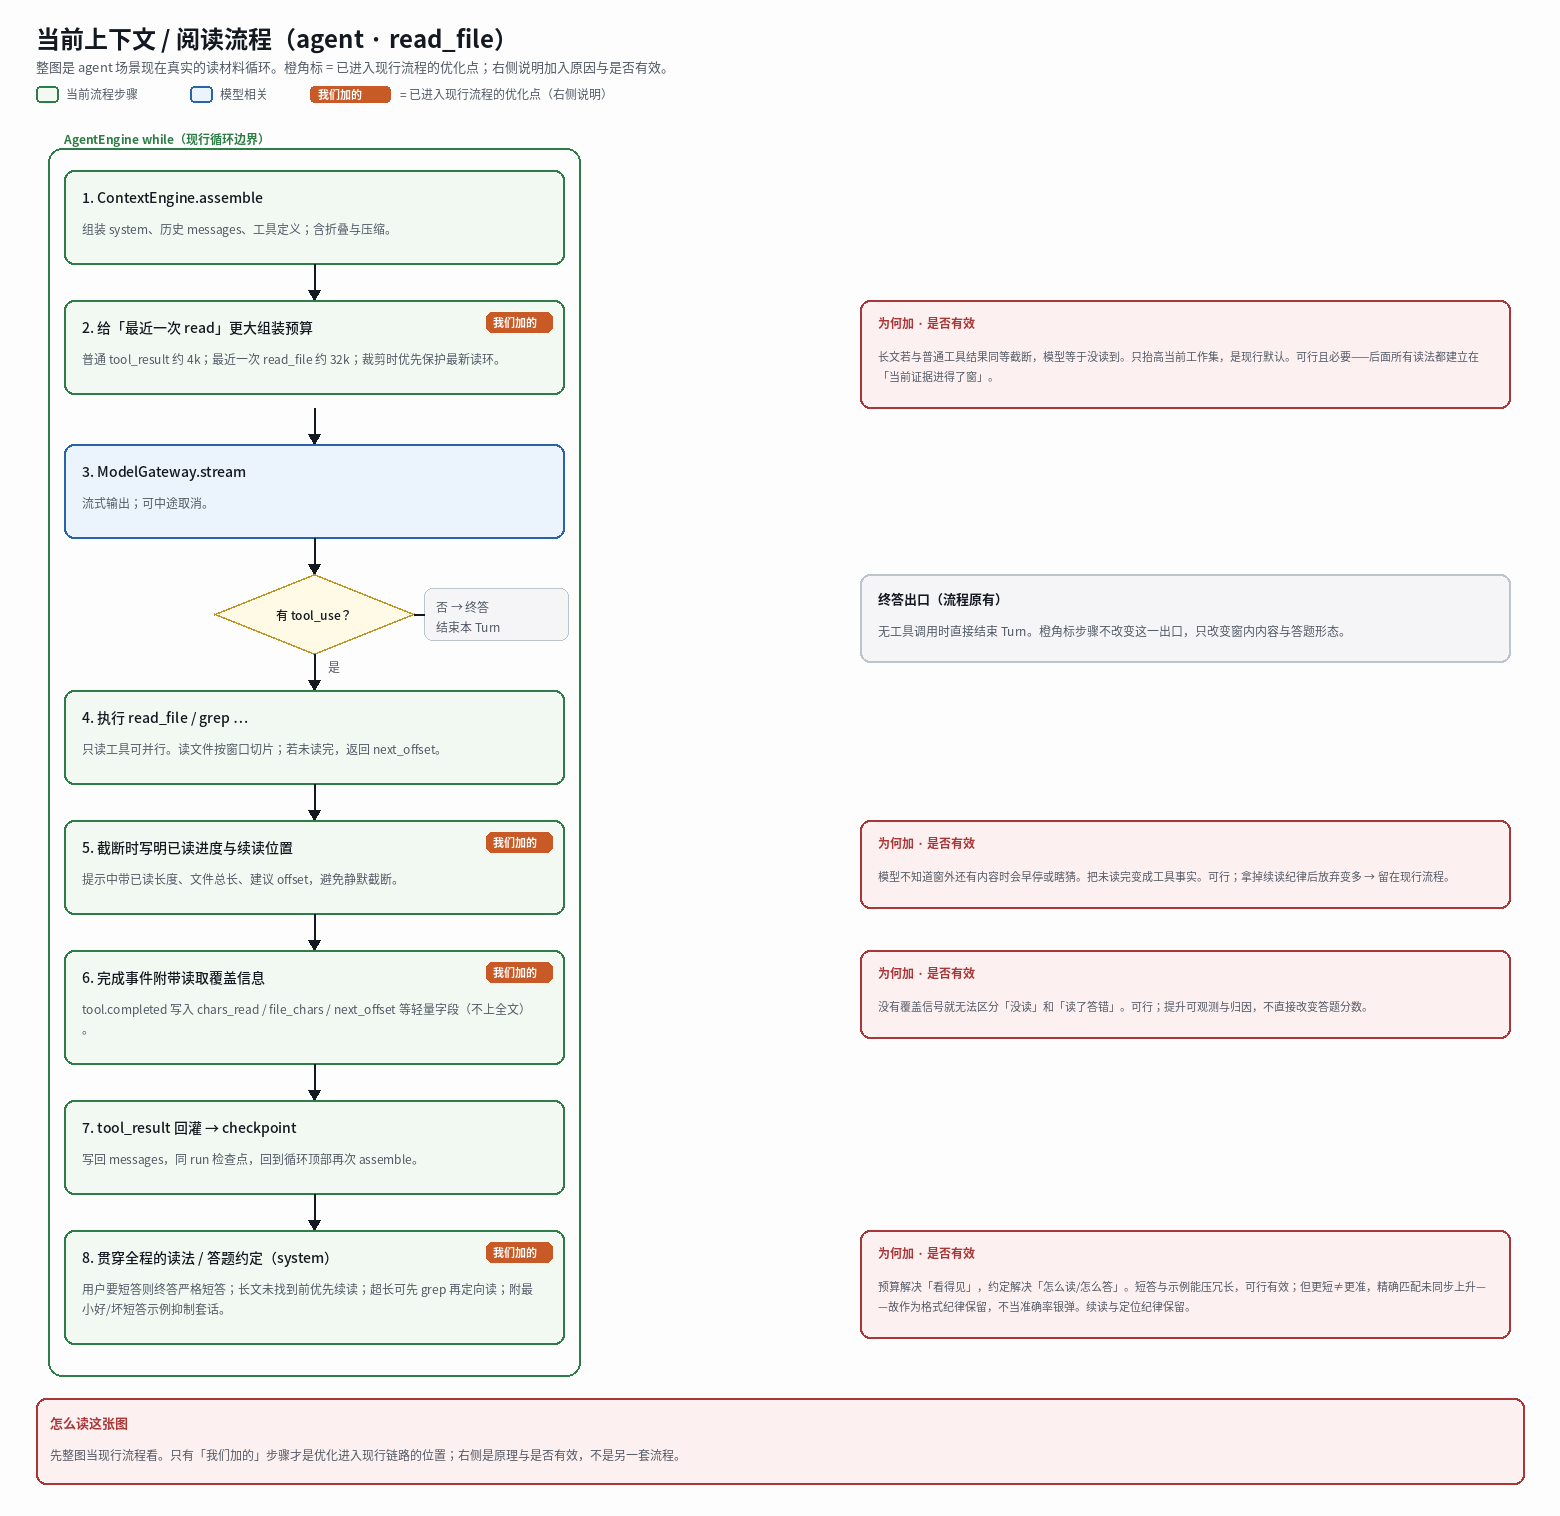
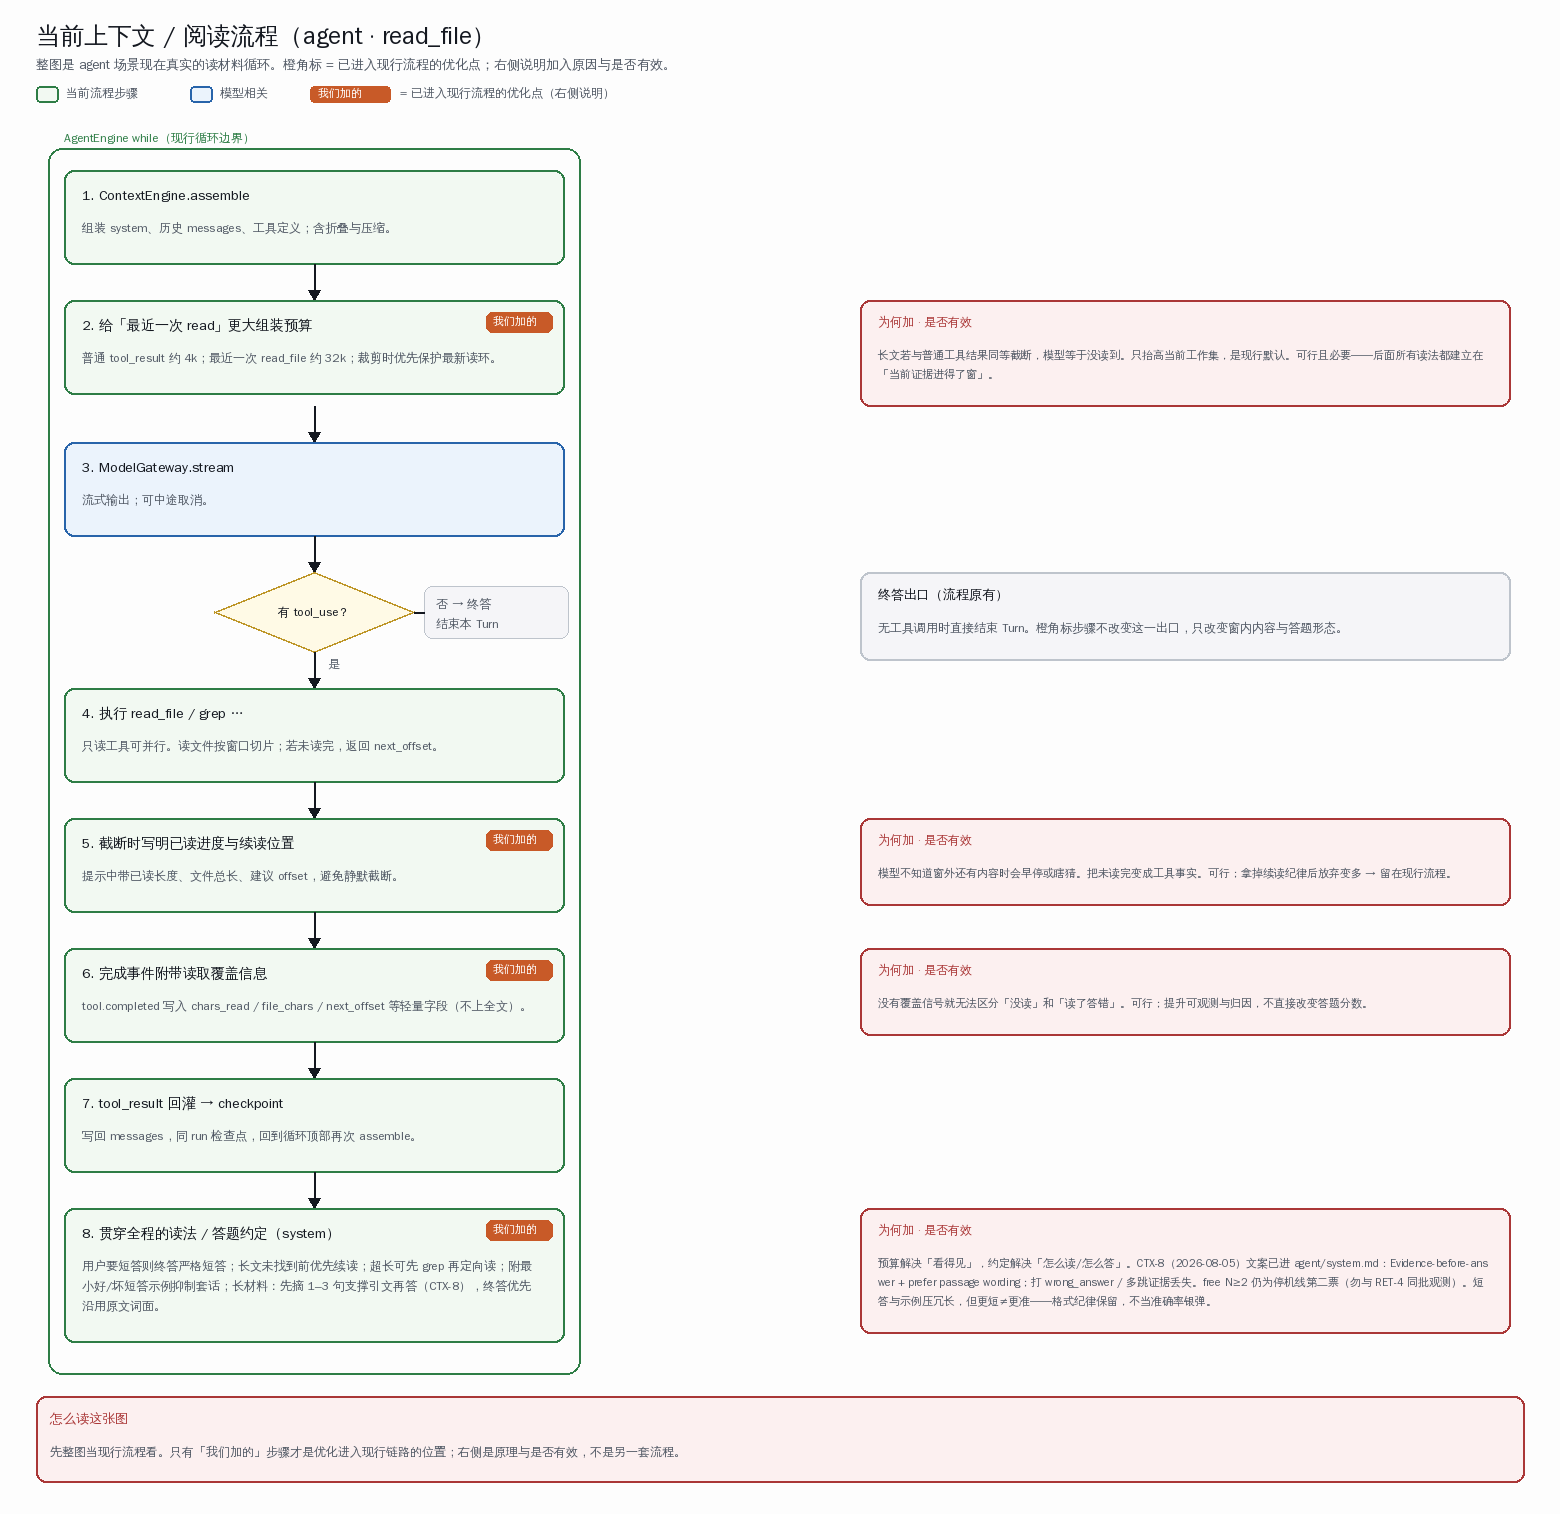
docs(eval): lock RET-4 gte pick and refresh §14 flowcharts
Record selection lock, unexecuted B–F schedule, and CPU-only reindex
playbook; bump INDEX_VERSION=9 with CUDA-aware embedder for tomorrow’s
VM swap test without claiming production cutover.

diff --git a/scripts/gen_l1_tuning_lanes_zh.py b/scripts/gen_l1_tuning_lanes_zh.py
@@ -19,9 +19,23 @@ from PIL import Image, ImageDraw, ImageFont
 ROOT = Path(__file__).resolve().parents[1]
 OUT = ROOT / "docs" / "topics"
 
-FONT_REG = "/usr/share/fonts/google-noto-cjk/NotoSansCJK-Regular.ttc"
-FONT_MED = "/usr/share/fonts/google-noto-cjk/NotoSansCJK-Medium.ttc"
-FONT_BOLD = "/usr/share/fonts/google-noto-cjk/NotoSansCJK-Bold.ttc"
+def _pick_cjk_font() -> str:
+    candidates = [
+        ROOT / ".cache" / "fonts" / "wqy-zenhei.ttc",
+        ROOT / ".cache" / "fonts" / "NotoSansCJK-Regular.ttc",
+        Path("/usr/share/fonts/truetype/wqy/wqy-zenhei.ttc"),
+        Path("/usr/share/fonts/google-noto-cjk/NotoSansCJK-Regular.ttc"),
+        Path("/usr/share/fonts/opentype/noto/NotoSansCJK-Regular.ttc"),
+    ]
+    for p in candidates:
+        if p.is_file():
+            return str(p)
+    return "/usr/share/fonts/truetype/dejavu/DejaVuSans.ttf"
+
+
+FONT_REG = _pick_cjk_font()
+FONT_MED = FONT_REG
+FONT_BOLD = FONT_REG
 
 BG = (253, 253, 253)
 INK = (20, 24, 32)
@@ -255,6 +269,16 @@ def fig_retrieval() -> Path:
         "并行 · Index 面（Turn 外）",
         "切块、嵌入、目录监视与同步在交互外完成。用户提问热路径只读已有投影，不同步建库。",
     )
+    right_y += 10
+    right_y = draw_note(
+        draw,
+        nx,
+        right_y,
+        nw,
+        "§14 / RET-4（2026-08-05）：离线 L0 已锁定 thenlper/gte-small@384（vs MiniLM macro +9.05pp）。"
+        "代码 INDEX_VERSION=9 + CUDA 自动探测已合入，但生产仍 MiniLM，须换 EMBEDDING_MODEL 后"
+        "全库重嵌才切查询；无 GPU 机可走 CPU torch（更慢）。未重嵌前禁止只改查询模型。",
+    )
     right_y += 18
 
     def place_step(title, body, *, kind="step", ours=False, note_body: str | None = None):
@@ -333,7 +357,7 @@ def fig_retrieval() -> Path:
         ours=True,
         note_body=(
             "弱命中时原地改几个字再搜通常无效；换互补词面扩大召回，且不加额外改写模型。"
-            "工程可行，已进入现行文案；效果仍建议再跑一轮确认，并盯防漂移。"
+            "RET-9 N≥2 后丢刀已回滚该互补文案（§13.8）；本框描述的是历史尝试位，现行默认不再依赖第二搜互补词面提分。"
         ),
     )
 
@@ -475,12 +499,14 @@ def fig_context() -> Path:
     title8 = "8. 贯穿全程的读法 / 答题约定（system）"
     body8 = (
         "用户要短答则终答严格短答；长文未找到前优先续读；超长可先 grep 再定向读；"
-        "附最小好/坏短答示例抑制套话。"
+        "附最小好/坏短答示例抑制套话；"
+        "长材料：先摘 1–3 句支撑引文再答（CTX-8），终答优先沿用原文词面。"
     )
     note8 = (
         "预算解决「看得见」，约定解决「怎么读/怎么答」。"
-        "短答与示例能压冗长，可行有效；但更短≠更准，精确匹配未同步上升——"
-        "故作为格式纪律保留，不当准确率银弹。续读与定位纪律保留。"
+        "CTX-8（2026-08-05）文案已进 agent/system.md：Evidence-before-answer + prefer passage wording；"
+        "打 wrong_answer / 多跳证据丢失。free N≥2 仍为停机线第二票（勿与 RET-4 同批观测）。"
+        "短答与示例压冗长，但更短≠更准——格式纪律保留，不当准确率银弹。"
     )
     h = step_h(draw, bw, title8, body8, ours=True)
     nh = note_h(draw, nw, note8)

diff --git a/services/runtime/app/retrieval/embedder.py b/services/runtime/app/retrieval/embedder.py
@@ -73,12 +73,14 @@ class SentenceTransformerEmbedder:
         from sentence_transformers import SentenceTransformer  # type: ignore[import-untyped]
 
         cache = model_dir or None
+        device = self._resolve_device()
         # Prefer local cache so startup cannot hang on HuggingFace hub I/O.
         try:
             self._model = SentenceTransformer(
                 model_name,
                 cache_folder=cache,
                 local_files_only=True,
+                device=device,
             )
         except Exception:
             logger.warning(
@@ -86,7 +88,26 @@ class SentenceTransformerEmbedder:
                 model_name,
                 exc_info=True,
             )
-            self._model = SentenceTransformer(model_name, cache_folder=cache)
+            self._model = SentenceTransformer(
+                model_name, cache_folder=cache, device=device
+            )
+
+    @staticmethod
+    def _resolve_device() -> str:
+        """Use CUDA when a usable GPU torch build is present (e.g. RTX 5080)."""
+        forced = (getattr(settings, "embedding_device", None) or "").strip().lower()
+        if forced in {"cpu", "cuda"}:
+            return forced
+        try:
+            import torch
+
+            if torch.cuda.is_available():
+                name = torch.cuda.get_device_name(0)
+                logger.info("embedder device=cuda gpu=%s", name)
+                return "cuda"
+        except Exception:
+            logger.debug("embedder CUDA probe failed", exc_info=True)
+        return "cpu"
 
     def embed(self, text: str) -> list[float]:
         vectors = self.embed_many([text])

diff --git a/services/runtime/app/retrieval/vector_index.py b/services/runtime/app/retrieval/vector_index.py
@@ -13,7 +13,7 @@ from app.retrieval.fusion import reciprocal_rank_fusion
 from app.retrieval.rerank import rerank_hits
 from app.settings import settings
 
-INDEX_VERSION = 8  # Stable HashEmbedder buckets require rebuilding persisted vectors.
+INDEX_VERSION = 9  # RET-4: thenlper/gte-small@384 shadow (was MiniLM @8)
 
 try:
     import numpy as np

diff --git a/docs/topics/retrieval-free-l1-tuning-brief.md b/docs/topics/retrieval-free-l1-tuning-brief.md
@@ -1,12 +1,12 @@
 # Free-L1 Tuning Brief（检索 + 上下文 · 交给后续模型）
 
 > **受众**：高级模型 / 下一轮调优负责人  
-> **日期戳记**：2026-08-04（§13 部署窗口 A 收束 · **仅记有效 free 跑** · **未入库**）  
+> **日期戳记**：2026-08-05（§14 批次 A 离线收束 · RET-4 **选型锁定 gte-small** · **未入库**）  
 > **唯一验收温度计**：L1 产品 Turn · `arm=free`（检索看 nDCG；上下文看 agent_f1/EM）  
 > **不作为验收**：forced/oracle 诊断臂、纯 L0 旁路、coding（本轮不可信）；schema 事故跑（见 §7.7 说明，**不入对照**）  
 > **本文自含**：不依赖阅读其他专题文档即可理解流程、历史与问题  
 > **当前平台锚（冒烟）**：检索 promote-off 均值 nDCG@10 **≈0.447**（`bcdbbb85`/`f92bc610`）；RET-9 两轮均值 **0.453**（丢刀后栈已回滚互补文案，平台仍按 promote-off 锚读）· 上下文 excl-infra F1 **≈0.40–0.42**  
-> **调优进度**：§9 批次 1–3 已部署；批次 5–6 契约/呈现/消融多刀已收；**RET-9 N≥2 丢刀已回滚**（§13.8）；主缺口仍在 weak_hits / FiQA absent → **RET-4**；上下文主缺口 wrong_answer → **CTX-8**（先 CTX-12）  
+> **调优进度**：§9–§13 已收；§14 A 离线 ✓；**RET-4 选型 = `thenlper/gte-small`**（生产仍 MiniLM，待换模+重嵌）；CTX-8 文案已部署、free N≥2 **进行中/待补干净对照**；下一执行主线见 **§14.6 / §14.7**  
 > **执行状态总览**：§9 → **§9.6**；§10 批次 5 → **§10.6**；§11 前置 → **§11.7**；§12 → **§12.6–12.9**；§13 → **§13.8**  
 > **第二轮提案（基于 §9 有效跑归因 · 观测先于改动）**：见 **§10**（批次 5–7：复跑凑 N≥2 → 归因/消融 → 单刀契约 → 结构刀）  
 > **第三轮补充思考（外部对标 · 2026-08-04）**：见 **§11**（EVAL 配对判别 / RET-10~13 / CTX-8~9 / 「合理、完备」终态定义）  
@@ -20,8 +20,9 @@
 > **第五轮补充思考（收束准备与停机线 · 2026-08-04）**：见 **§13**（EVAL-6 · RET-17/18 · CTX-12 · INFRA-1/2 · REP-3 · D-1）  
 > **§13 部署窗口 A（2026-08-04）**：见 **§13.8**（INFRA-1/2 已部署 · **RET-9 N≥2 丢刀已回滚** · RET-18 开关默认 on · 停机计数 **+1/2** · **下一刀 CTX-8**（先 CTX-12）· **未入库**）  
 > **第六轮补充思考（平台期直答 + 真正提升主线 · 2026-08-04）**：见 **§14**（为什么多轮无明显提升的三笔账 · 外部对标第二辑 · **RET-4 执行细化 v2（384 维免改 ANN）** · RET-19 离线 rerank 余量 · PROD-1 产品镜像套件 · EVAL-7 效应量门）  
-> **§14 批次 A 进度（2026-08-05）**：见 **§14.6**（CTX-12/RET-17 离线 ✓ · RET-19 mean Δ **+0.51pp** → `close_rerank_topic` · RET-4 L0 选型推荐 **`thenlper/gte-small`** macro nDCG@10 **0.569** / vs MiniLM **+9.1pp** · CTX-8 文案已部署待 free N≥2 · PROD-1 草稿 24 题 · **L0 不入主栏 · 未入库**）  
-> **流程图**：检索 [retrieval-tuning-flowchart.png](retrieval-tuning-flowchart.png) · 上下文 [context-tuning-flowchart.png](context-tuning-flowchart.png)（`python3 scripts/gen_l1_tuning_lanes_zh.py`）
+> **§14 批次 A 进度（2026-08-05）**：见 **§14.6**（离线收束 · gte 锁定 · 代码 `INDEX_VERSION=9` 已备 · **未重嵌 · 未入库**）  
+> **§14.7 未执行排期 + 无 GPU 换模手册**：见 **§14.7**（明天他机 CPU 换 `thenlper/gte-small` 测试步骤）  
+> **流程图**：检索 [retrieval-tuning-flowchart.png](retrieval-tuning-flowchart.png) · 上下文 [context-tuning-flowchart.png](context-tuning-flowchart.png)（`python3 scripts/gen_l1_tuning_lanes_zh.py` · 已标注 RET-4/CTX-8 本轮变更）
 
 ---
 
@@ -2475,21 +2476,85 @@ free 验收: 不需要；生效标志 = 此后不再出现「开跑前就注定 
 | CTX-12 | ✓ 离线 | `gamma_paraphrase` 主导 → 支持 CTX-8「prefer passage wording」 |
 | RET-17 | ✓ 离线 | gold absent ~18–20%；FiQA 冒烟切片 absent 仍可见 → 支撑 RET-4 主杠杆叙事 |
 | RET-19 | ✓ 离线 | mean Δ **+0.51pp** → **`close_rerank_topic`**（不上热路径 CE） |
-| RET-4 L0 选型 | ✓ 离线（GPU / 5080） | 推荐 **`thenlper/gte-small`**（384-d）；宏观 vs MiniLM **+9.05pp** |
-| CTX-8 | 文案已部署 · free **待 N≥2** | `system.md`：Evidence-before-answer + prefer passage wording |
+| RET-4 L0 选型 | ✓ **锁定** | **`thenlper/gte-small`**（384-d）；宏观 vs MiniLM **+9.05pp** |
+| RET-4 代码预备 | ✓ 合入待用 | `INDEX_VERSION=9`；embedder CUDA 自动探测（`getattr` 可覆盖）；**尚未**换生产 `EMBEDDING_MODEL`、**尚未**全库重嵌 |
+| CTX-8 | 文案 ✓ · free **N=1 干净** | pass2 `fdd03298` / ops `13a28e28`：excl-infra F1 **0.428** · EM **0.200** · ok=40 / wrong_answer=10 / abandoned=4（健康）；pass1 `39dcede1` inflight 污染作废 → **仍差 1 轮干净** 才满 N≥2 / 停机线 |
 | PROD-1 | 草稿 | `eval/official/prod1/` 24 题 · `frozen=false` · 禁调参 |
 | EVAL-7 | 规则已述 | 效应量门写在 §14.3；冒烟契约刀继续受其约束 |
 
-**RET-4 L0 冒烟表**（smoke run `03569f22` · 每库 ≤20q · artifact `eval/reports/official/batch14/ret4_selection.json`）
+**RET-4 选型锁定（不可再开 L0 选型争论，除非影子 free 翻盘）**
+
+冒烟 run `03569f22` · 每库 ≤20q · artifact `eval/reports/official/batch14/ret4_selection.json`
 
 | 模型 | SciFact nDCG@10 / abs@100 | NFCorpus | FiQA | macro |
 |------|---------------------------|----------|------|-------|
 | MiniLM-L6-v2（基线） | 0.645 / 1 | 0.386 / 0 | 0.404 / 3 | **0.478** |
 | bge-small-en-v1.5 | 0.759 / 0 | 0.412 / 0 | **0.465** / 3 | 0.545 |
-| **gte-small（选）** | **0.793** / 0 | **0.482** / 0 | 0.432 / 3 | **0.569** |
+| **gte-small（锁定）** | **0.793** / 0 | **0.482** / 0 | 0.432 / 3 | **0.569** |
 
-- **选型**：`thenlper/gte-small` → 计划影子 `INDEX_VERSION=9` 全库重嵌；**仍需** free N≥2 + 全量锚才谈入库。  
-- **诚实注**：本冒烟切片上三模型 FiQA **absent@100 均为 3**——L0 宏分大涨主要来自 SciFact/NF；FiQA absent 收窄仍要以影子索引后的 free/全量对照为准，不得用本表宣称「absent 已灭」。  
-- **bge vs gte**：bge 在 FiQA nDCG 略高；gte 宏分与 SciFact/NF 领先 → 按修订 2 的宏分+同分选型规则取 gte；若影子后 FiQA 回归异常可回看 bge。
+- **锁定理由**：同维 384 → 免改 ANN；宏分最高；SciFact/NF 领先。bge 仅 FiQA 略高 → 影子后若 FiQA 回归可回看，**不作为今晚重开选型的理由**。
+- **诚实注**：三模型 FiQA **absent@100 均为 3**——不得用本表宣称「absent 已灭」。
+- **生产现状**：compose 默认仍 `sentence-transformers/all-MiniLM-L6-v2`；代码侧 `INDEX_VERSION=9` 已写好，**未重嵌前查询切 gte = 维同空间异 → 必伤召回**。
 
-**下一批（§14.4 B）**：CTX-8 free N≥2（停机线第二票）→ RET-18 two-level 消融 N≥2 → 再进 REP-3 / 影子重嵌。
+**本轮推动（已落地 / 未入库）**
+
+| 项 | 路径 / 说明 |
+|----|-------------|
+| CTX-8 文案 | `services/runtime/app/scenarios/agent/system.md` |
+| RET-4 离线脚本与结果 | `scripts/official_bench/batch14_offline_selection.py` · `eval/reports/official/batch14/ret4_selection.json` |
+| CTX-8 冒烟脚本 | `scripts/official_bench/run_ctx8_n2.sh`（DeepSeek `deepseek-v4-flash`；并行注意 inflight≤16） |
+| Index bump + GPU embed | `vector_index.py` `INDEX_VERSION=9` · `embedder.py` CUDA auto |
+| 流程图 | `docs/topics/*-tuning-flowchart.png`（本轮标注 RET-4/CTX-8） |
+
+### 14.7 未执行排期（文档内待办）+ 无 GPU 换模测试手册
+
+#### 14.7.1 未执行主线（严格按序 · 摘自 §14.4）
+
+| 序 | 批次 | 内容 | 完成判据 | 状态 |
+|----|------|------|----------|------|
+| 1 | **B** | CTX-8 free **干净** N≥2（停机线第二票） | 两轮无大规模 abandoned/infra；记子桶 Δ；决定是否触发停机线 | **N=1**（`fdd03298` F1 0.428）；再补 1 轮 |
+| 2 | **B** | RET-18 two-level 消融 N≥2 | 回填 §13.6 排序栈台账第 4 行 | **未执行** |
+| 3 | **C** | REP-3 全量锚（栈冻结） | 检索必跑；上下文按 §13.1 随跑 | **未执行**（硬前置） |
+| 4 | **D** | RET-4：换 `EMBEDDING_MODEL=thenlper/gte-small` → **全库重嵌** → free 20q N≥2 → 全量后锚 | FiQA absent 收窄 + 宏分正 Δ | **未执行**（选型已锁，重嵌未做） |
+| 5 | **E** | RET-11(b) / CTX-6 /（条件）rerank 预算票 | 各自 N≥2；与 RET-4 **分影子** | **视 D 余量** |
+| 6 | **F** | PROD-1 首跑迁移率 + §11.6 四问书面作答 | 完备收束 | **未执行** |
+
+**禁止**：跳过 B/C 直接把 L0 +9pp 写入 SCORECARD；未重嵌只改查询模型；同批叠 RET-4 与 RET-11。
+
+#### 14.7.2 明天 · 另一台无 GPU 虚拟机换模测试（操作清单）
+
+目标：在 **CPU-only** 环境验证 gte 路径可启动、可重嵌、可跑小量 free——**不**要求 RTX；接受 embed 更慢。
+
+```text
+前置
+  · 拉本仓库含 INDEX_VERSION=9 / embedder CUDA-auto 的 commit
+  · 准备 sentence-transformers + torch（CPU 轮即可；勿装错 +cu 却无驱动）
+  · 磁盘：gte-small 权重 + BEIR 语料；FiQA 全量重嵌最重
+
+环境变量（示例 · 写入该机 .env / compose，勿提交密钥）
+  EMBEDDING_BACKEND=sentence_transformers
+  EMBEDDING_MODEL=thenlper/gte-small
+  EMBEDDING_DIMENSIONS=384          # 与 MiniLM 同维；勿改成 768
+  # 可选强制 CPU：若 settings 暴露 embedding_device 则设 cpu；否则依赖 torch.cuda.is_available()=False
+
+换模步骤（顺序不可跳）
+  1. 停写入流量 / 或使用隔离 compose 项目
+  2. 改 EMBEDDING_MODEL → gte-small；确认 INDEX_VERSION 代码为 9
+  3. 触发 BEIR / 产品库 **全量重嵌**（同步建库；热路径查询须等投影写完）
+     · 官方小量：make official-bench-retrieval-agent QUERY_LIMIT=20 会拉同步；
+       全库以该机既有 reindex/bench 入口为准（约 66k docs 量级，CPU 可能数小时）
+  4. 冒烟：retrieval free limit=20 ×1（先看 FiQA absent@100 与宏 nDCG，勿入库）
+  5. 若空间错乱（分崩）：立刻改回 MiniLM + 旧投影 / 从备份恢复；查是否未重嵌就切了查询
+
+验收（他机 · 仍不算本 brief 入库）
+  · 进程能 load gte；search_sources 返回非空
+  · 同协议 20q 相对该机 MiniLM 基线有方向性对照（记录 run_id，回填本 §）
+  · 不在此机上跑 N≥2 入库叙事，除非协议与主平台锚对齐并完成 REP-3 门禁
+
+注意
+  · GPU 只加速重嵌/encode，不改变选型结论；无 GPU ≠ 不能测 gte
+  · CTX-8 是 LLM 文案刀，与 embed 换模正交；他机测检索时勿顺便改 system.md 对照
+```
+
+**下一批执行提醒**：回主平台后优先收束 CTX-8 干净 N≥2 → RET-18 → REP-3 → 再正式影子/生产重嵌 gte。
+
